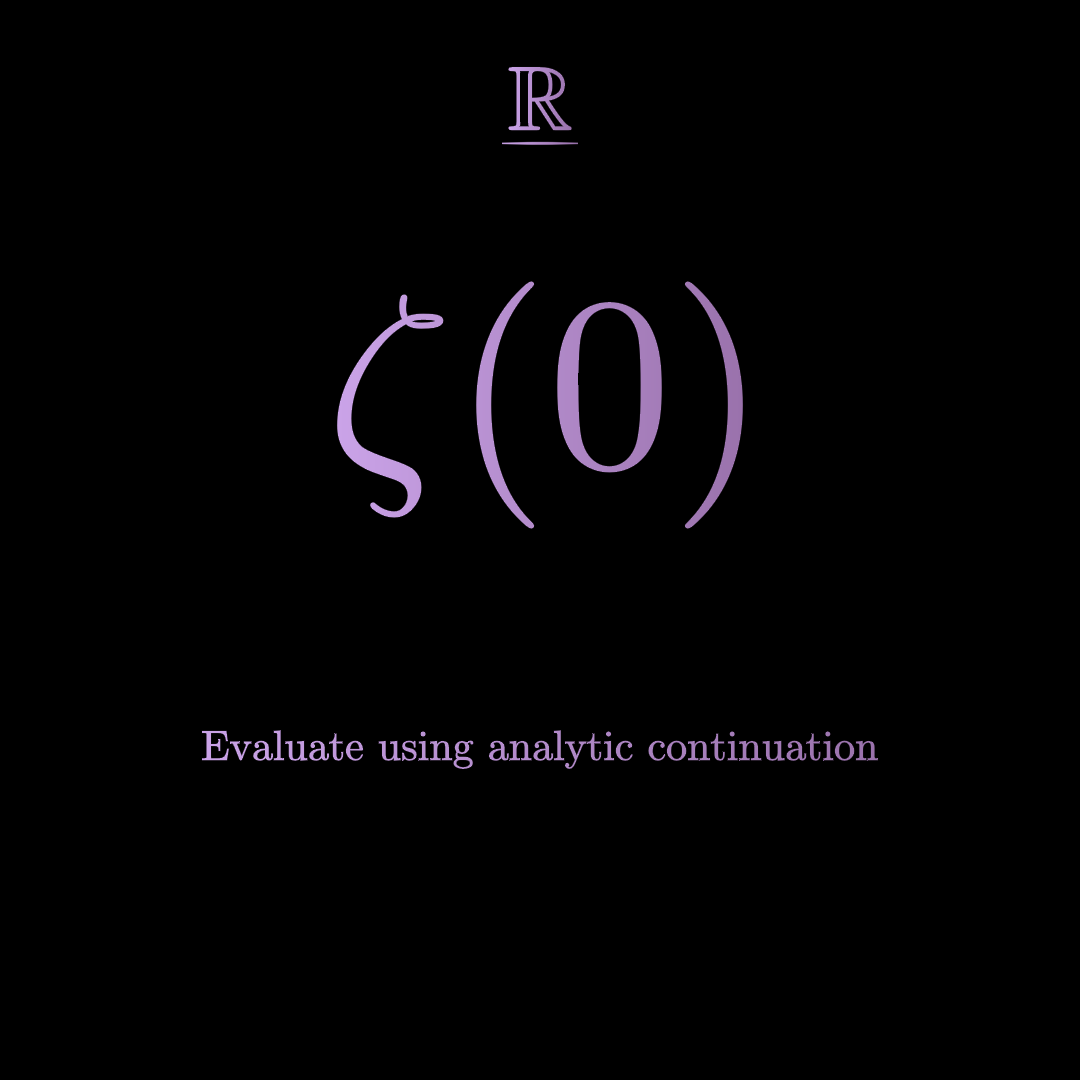
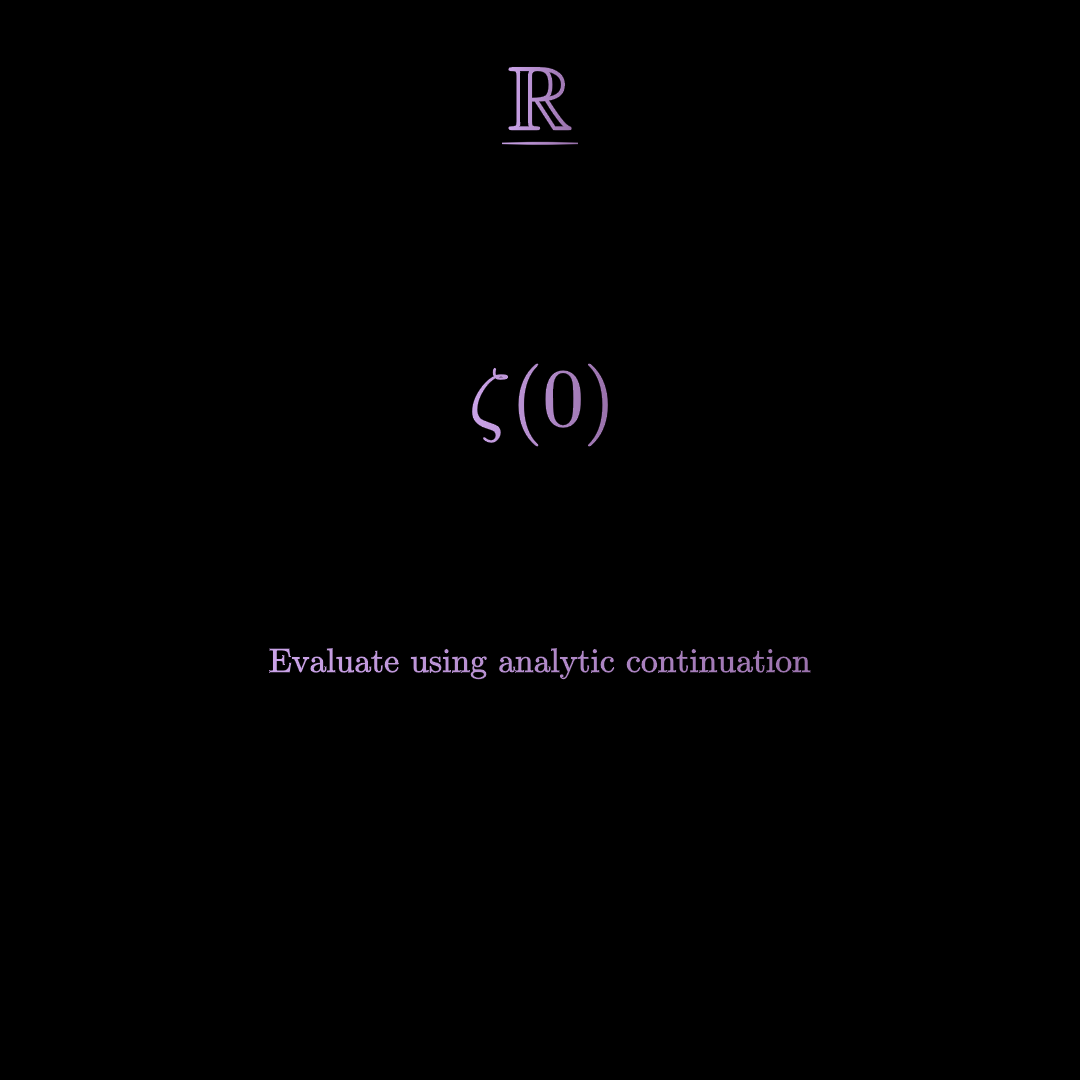
f

diff --git a/char.py b/char.py
@@ -528,12 +528,12 @@ class R(InteractiveScene):
         problem = Tex(R"\zeta(0)")
         problem.set_color(color)
         problem.shift(UP)
-        problem.set_width(FRAME_WIDTH - 5)
+        problem.set_width(FRAME_WIDTH - 7)
         self.add(problem)
 
         solve = TexText("Evaluate using analytic continuation")
         solve.set_color(color)
-        solve.set_width(5.0)
+        solve.set_width(4.0)
         solve.next_to(problem, DOWN, buff=LARGE_BUFF * 1.5)
         self.add(solve)
 
